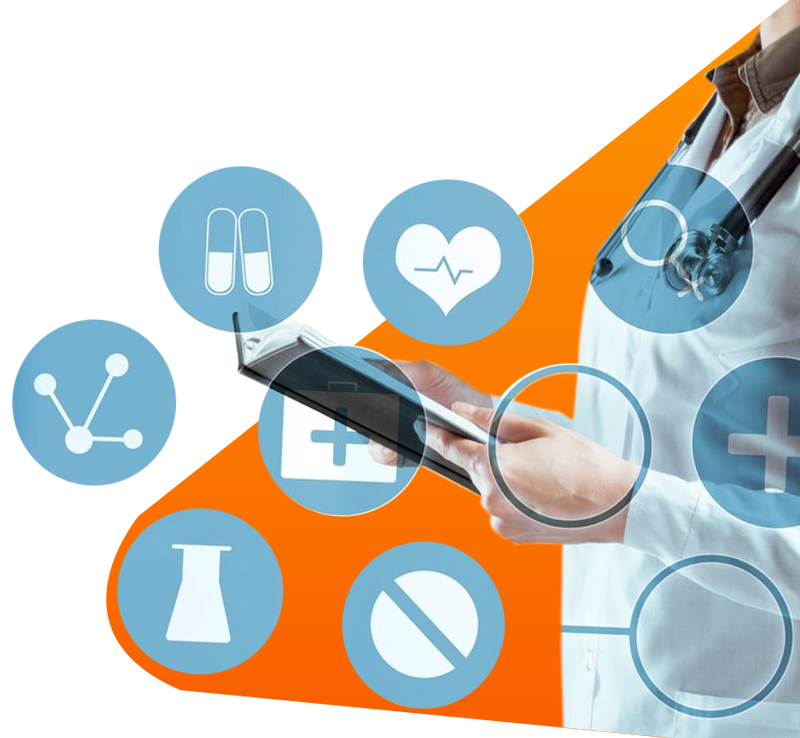
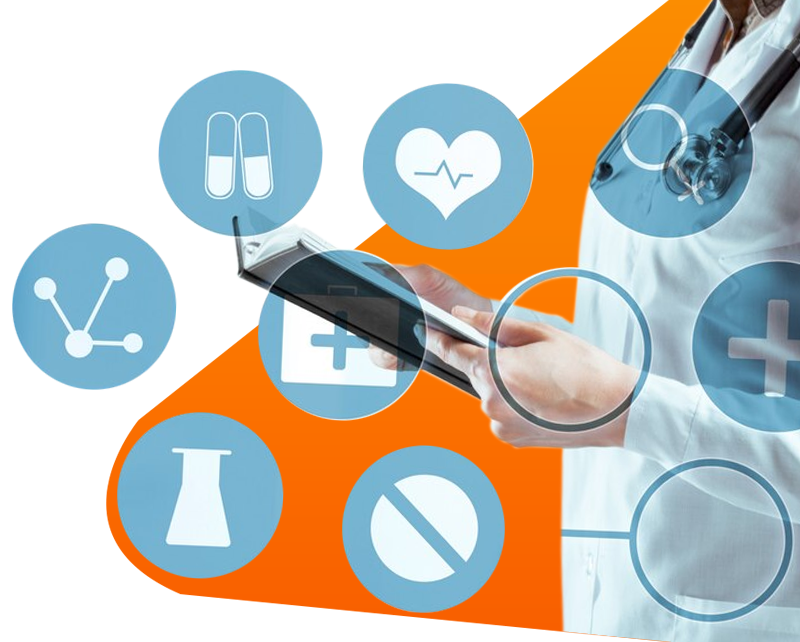
added

diff --git a/index.html b/index.html
@@ -248,7 +248,7 @@
             <div class="about-content">
               <h2 class="section-heading">About Our Firm</h2>
               <div class="about-inline-image">
-                <img src="assets/img/home-6.webp" alt="Curis Healthcare Team" class="img-fluid">
+                <img src="assets/img/home-20.png" alt="Curis Healthcare Team" class="img-fluid">
               </div>
               <p class="lead-text">Curis was established to help medical billing companies reduce ongoing
                 costs through deep domain expertise and a cost-effective onshore and offshore model.</p>
@@ -339,8 +339,8 @@
           <div class="col-lg-4" data-aos="fade-up" data-aos-delay="200">
             <article class="rcm-card">
               <div class="rcm-card-image">
-                 <img src="assets/img/home-9.jpg" alt="Accounts Receivable Management Services"
-                  class="img-fluid">
+                <img src="assets/img/home-10.jpg" alt="Payment Posting" class="img-fluid">
+                
               </div>
               <div class="rcm-card-body">
                 <h4>Payment Posting</h4>
@@ -356,7 +356,8 @@
           <div class="col-lg-4" data-aos="fade-up" data-aos-delay="300">
             <article class="rcm-card">
               <div class="rcm-card-image">
-                <img src="assets/img/home-10.jpg" alt="Payment Posting" class="img-fluid">
+                 <img src="assets/img/home-9.jpg" alt="Accounts Receivable Management Services"
+                  class="img-fluid">
                
               </div>
               <div class="rcm-card-body">
@@ -431,7 +432,7 @@
             <div class="row g-4">
               <div class="col-md-6">
                 <div class="tech-card">
-                  <img src="assets/img/home-9.jpg" alt="Eligibility &amp; Claims Checks" class="img-fluid">
+                  <img src="assets/img/Eligibility (2).jpg" alt="Eligibility &amp; Claims Checks" class="img-fluid">
                   <div class="tech-card-body">
                     <h4>Eligibility &amp; Claims Checks</h4>
                     <p>Real-time validation and payer rules before submission.</p>
@@ -440,7 +441,7 @@
               </div>
               <div class="col-md-6">
                 <div class="tech-card">
-                  <img src="assets/img/home-10.jpg" alt="Dashboard Reporting" class="img-fluid">
+                  <img src="assets/img/Dashboard_.jpg" alt="Dashboard Reporting" class="img-fluid">
                   <div class="tech-card-body">
                     <h4>Dashboard Reporting</h4>
                     <p>Executive visibility across KPIs, AR, and productivity.</p>
@@ -449,7 +450,7 @@
               </div>
               <div class="col-md-6">
                 <div class="tech-card">
-                  <img src="assets/img/home-8.webp" alt="Workflow Automation" class="img-fluid">
+                  <img src="assets/img/Process Automation.jpg" alt="Workflow Automation" class="img-fluid">
                   <div class="tech-card-body">
                     <h4>Workflow Automation</h4>
                     <p>Reduce manual effort with smart routing and alerts.</p>
@@ -458,7 +459,7 @@
               </div>
               <div class="col-md-6">
                 <div class="tech-card">
-                  <img src="assets/img/home-6.webp" alt="Data Security" class="img-fluid">
+                  <img src="assets/img/dataana.jpg" alt="Data Security" class="img-fluid">
                   <div class="tech-card-body">
                     <h4>Data Security</h4>
                     <p>HIPAA-aligned controls and secure integrations.</p>
